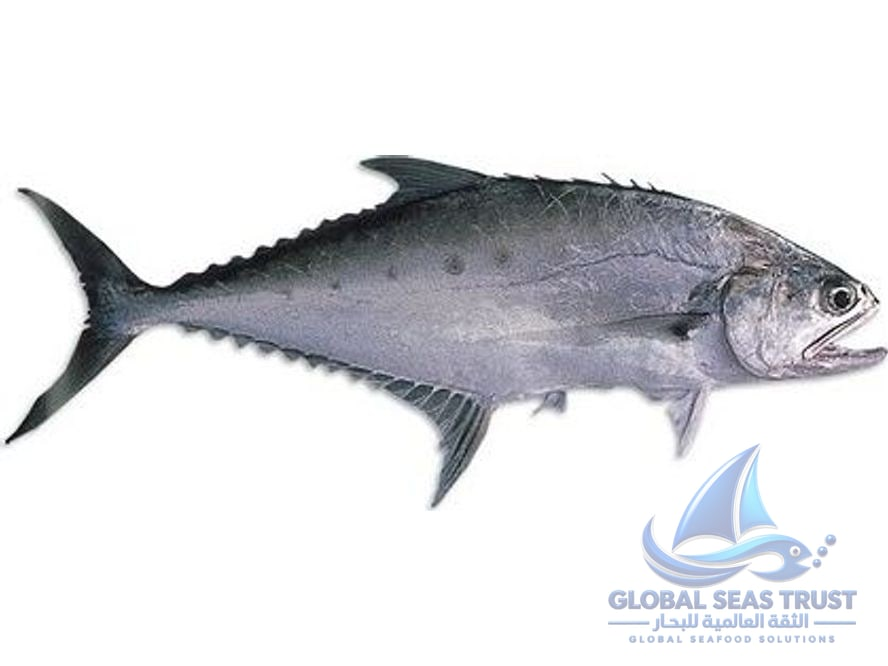
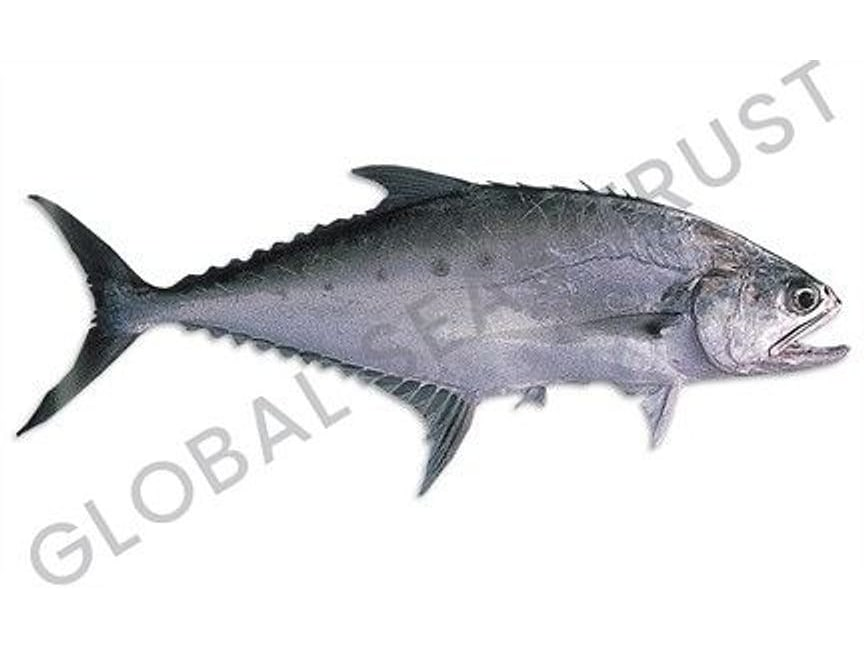
Show every fish whole, and rebuild the catalogue from the client's own set
The client reported the tuna, ribbon fish, yellowstripe scad, pony fish and
moon fish were "not fully visible". Both causes were mine.

The image pipeline had two paths: white-background photos were padded, and
anything else was cropped to fit a 4:3 frame. The yellowfin tuna is a wide
1000x387, so cropping it took the head off. Verified against the zip
original, which shows the whole fish. Nothing is cropped now.

The cards then cropped again. Measured across every product, the subject
fills 100% of the frame height while object-fit: cover in a 272x150 card
keeps only 73-74% — so the top and bottom of every fish was being sliced,
not just the five they happened to notice. Now contain, with the image
painting its own white ground so the tint behind never shows through the
padding that contain leaves.

All 24 photos rebuilt from Downloads/Global Seas Trust - Product Images,
where the client has applied their own diagonal GLOBAL SEAS TRUST wording —
the "3rd one / L2 Medium" they picked at 18:15. So the pipeline no longer
stamps a watermark, and no longer trims either: that wording runs to the
image edges and trimming would clip it.

Mahi Mahi and Salema Porgy added, taking the catalogue to 24 and the stat
tile from 22. Both still carry the problems flagged earlier — the Alamy
watermark is still under the new wording on the Salema Porgy, and the
D. Redwine signature is still legible on the Mahi Mahi painting. Published
[…]

diff --git a/src/data/site.ts b/src/data/site.ts
@@ -15,6 +15,8 @@ import imgBlastFreezer3 from '../assets/site/facility-blast-freezer-3.jpg';
 import imgChillRoom from '../assets/site/facility-chill-room.jpg';
 import imgColdStore from '../assets/site/facility-cold-store.jpg';
 import imgCompanyFront from '../assets/site/banner-infrastructure.jpg';
+import imgHeroFishing from '../assets/site/hero-fishing.jpg';
+import imgAboutObjective from '../assets/site/about-objective.jpg';
 import imgYellowfinTuna from '../assets/products/yellowfin-tuna.jpg';
 import imgGrouper from '../assets/products/grouper.jpg';
 import imgEmperor from '../assets/products/spangled-emperor.jpg';
@@ -27,9 +29,9 @@ import imgVannamei from '../assets/products/vannamei-shrimp.jpg';
 // Every image on the site is the company's own. The stock photography that
 // shipped with the scaffold — including a Santorini hero — was removed.
 export const siteImages = {
-  hero: imgColdStore,
-  feature: imgChillRoom,
-  about: imgAboutTuna,
+  hero: imgHeroFishing,
+  feature: imgCompanyFront,
+  about: imgAboutObjective,
 };
 
 export const company = {
@@ -115,7 +117,7 @@ export const stats = [
   { value: '3', label: 'Blast Freezers', labelAr: 'غرف تجميد سريع', icon: 'factory' },
   { value: '−40 °C', label: 'Blast-Frozen Core', labelAr: 'حرارة القلب بعد التجميد', icon: 'drop' },
   { value: '2', label: 'Cold Stores', labelAr: 'مخازن باردة', icon: 'box' },
-  { value: '21', label: 'Species Exported', labelAr: 'نوعاً نصدّره', icon: 'fish' },
+  { value: '24', label: 'Species Exported', labelAr: 'نوعاً نصدّره', icon: 'fish' },
 ];
 
 export interface Product {
@@ -137,7 +139,7 @@ export interface Product {
 export const products: Product[] = [
   { name: 'Yellowfin Tuna', nameAr: 'تونة صفراء الزعانف', scientific: 'Thunnus albacares', forms: 'Whole', formsAr: 'كاملة', icon: 'fish', image: imgYellowfinTuna, href: '/products/fish/yellowfin-tuna/' },
   { name: 'Grouper', nameAr: 'هامور', scientific: 'Epinephelus diacanthus', forms: 'Whole', formsAr: 'كاملة', icon: 'fish', image: imgGrouper, href: '/products/fish/grouper/' },
-  { name: 'Spangled Emperor', nameAr: 'شعري', scientific: 'Lethrinus nebulosus', forms: 'Whole', formsAr: 'كاملة', icon: 'fish', image: imgEmperor, href: '/products/fish/spangled-emperor/' },
+  { name: 'Emperor', nameAr: 'شعري', scientific: 'Lethrinus nebulosus', forms: 'Whole', formsAr: 'كاملة', icon: 'fish', image: imgEmperor, href: '/products/fish/spangled-emperor/' },
   { name: 'Grey Mullet', nameAr: 'بياح', scientific: 'Mugil cephalus', forms: 'Whole', formsAr: 'كاملة', icon: 'fish', image: imgGreyMullet, href: '/products/fish/grey-mullet/' },
   { name: 'Ribbon Fish', nameAr: 'سمك الشريط (سيف)', scientific: 'Trichiurus lepturus', forms: 'Whole', formsAr: 'كاملة', icon: 'fish', image: imgRibbonFish, href: '/products/fish/ribbon-fish/' },
   { name: 'Indian Mackerel', nameAr: 'ماكريل هندي', scientific: 'Rastrelliger kanagurta', forms: 'Whole', formsAr: 'كاملة', icon: 'fish', image: imgIndianMackerel, href: '/products/fish/indian-mackerel/' },

diff --git a/src/data/catalogue.ts b/src/data/catalogue.ts
@@ -33,6 +33,9 @@ import imgYellowstripeScad from '../assets/products/yellowstripe-scad.jpg';
 import imgPonyFish from '../assets/products/pony-fish.jpg';
 import imgGreyMullet from '../assets/products/grey-mullet.jpg';
 import imgCatfish from '../assets/products/catfish.jpg';
+import imgChubMackerel from '../assets/products/chub-mackerel.jpg';
+import imgMahiMahi from '../assets/products/mahi-mahi.jpg';
+import imgSalemaPorgy from '../assets/products/salema-porgy.jpg';
 import imgMoonfish from '../assets/products/moonfish.jpg';
 import imgVannamei from '../assets/products/vannamei-shrimp.jpg';
 
@@ -113,7 +116,7 @@ export const categories: Category[] = [
       },
       {
         slug: 'spangled-emperor',
-        name: 'Spangled Emperor',
+        name: 'Emperor',
         scientific: 'Lethrinus nebulosus',
         forms: 'Whole / Blast Frozen',
         description:
@@ -250,6 +253,36 @@ export const categories: Category[] = [
           'Marine catfish is a soft-fleshed species taken along the Arabian Sea coast, with few bones once trimmed. It sells in steady volume into South Asian and African markets, where it is valued for curries and drying. Supplied whole and blast frozen.',
         icon: 'fish',
         image: imgCatfish,
+      },
+      {
+        slug: 'chub-mackerel',
+        name: 'Chub Mackerel',
+        scientific: 'Scomber japonicus',
+        forms: 'Whole / Blast Frozen',
+        description:
+          'Chub mackerel is a fast-schooling pelagic fish landed in volume across the region and prized for its rich, oily flesh. It is a staple of canning lines and grilled and smoked preparations in Asian, African and Mediterranean markets. Supplied whole round and blast frozen.',
+        icon: 'fish',
+        image: imgChubMackerel,
+      },
+      {
+        slug: 'mahi-mahi',
+        name: 'Mahi Mahi',
+        scientific: 'Coryphaena hippurus',
+        forms: 'Whole / Blast Frozen',
+        description:
+          'Mahi mahi, the dolphinfish, is a fast-growing surface predator recognised by its blunt head and brilliant blue-green flanks. Its firm, lean white flesh holds up to grilling and is in strong demand from hotel and food-service buyers. Supplied whole and blast frozen.',
+        icon: 'fish',
+        image: imgMahiMahi,
+      },
+      {
+        slug: 'salema-porgy',
+        name: 'Salema Porgy',
+        scientific: 'Sarpa salpa',
+        forms: 'Whole / Blast Frozen',
+        description:
+          'Salema porgy is a shoaling sea bream marked by golden stripes running the length of a silver body. Lean and modestly priced, it is a everyday table fish across Mediterranean and East African markets. Supplied whole, size-graded and blast frozen.',
+        icon: 'fish',
+        image: imgSalemaPorgy,
       },
       {
         slug: 'moonfish',

diff --git a/src/data/catalogue.ar.ts b/src/data/catalogue.ar.ts
@@ -146,6 +146,27 @@ export const itemsAr: Record<string, ArItem> = {
     description:
       'البوري مسطّح الرأس سمك ساحلي قوي يعيش في المصبّات، بلحم غني مميّز وسوق راسخة في الشرق الأوسط وأفريقيا. بيضه مرغوب بذاته. يُوفَّر كاملاً ومفروزاً حسب الحجم ومجمّداً تجميداً سريعاً.',
   },
+  'mahi-mahi': {
+    // review: transliteration — confirm the Gulf trade name for Coryphaena hippurus
+    name: 'ماهي ماهي (الدلفينة)',
+    forms: WHOLE,
+    description:
+      'الماهي ماهي، أو سمك الدلفين، مفترس سطحي سريع النمو يُعرف برأسه العريض وجانبيه الزرقاء المخضرّة اللامعة. لحمه الأبيض المتماسك قليل الدهن يتحمّل الشيّ، وعليه طلب قوي من الفنادق وخدمات الطعام. يُوفَّر كاملاً ومجمّداً تجميداً سريعاً.',
+  },
+  'salema-porgy': {
+    // review: السالمة is a transliteration; confirm the local market name
+    name: 'سمك السالمة',
+    forms: WHOLE,
+    description:
+      'سمك السالمة من أسماك الدنيس التي تعيش في أسراب، ويتميّز بخطوط ذهبية تمتد على طول جسمه الفضي. قليل الدهن ومعتدل السعر، وهو سمك مائدة يومي في أسواق البحر المتوسط وشرق أفريقيا. يُوفَّر كاملاً ومفروزاً حسب الحجم ومجمّداً تجميداً سريعاً.',
+  },
+  'chub-mackerel': {
+    // review: الماكريل الأزرق is the common rendering; confirm the Gulf trade name
+    name: 'ماكريل أزرق',
+    forms: WHOLE,
+    description:
+      'الماكريل الأزرق سمك سطحي سريع يعيش في أسراب ويُنزَل بكميات كبيرة في المنطقة، ويُقدَّر للحمه الغني بالزيوت. وهو أساسي في خطوط التعليب وفي الشيّ والتدخين بأسواق آسيا وأفريقيا والبحر المتوسط. يُوفَّر كاملاً ومجمّداً تجميداً سريعاً.',
+  },
   catfish: {
     // review: السلور reads as freshwater; marine Arius may differ in Oman
     name: 'سمك السلور',
